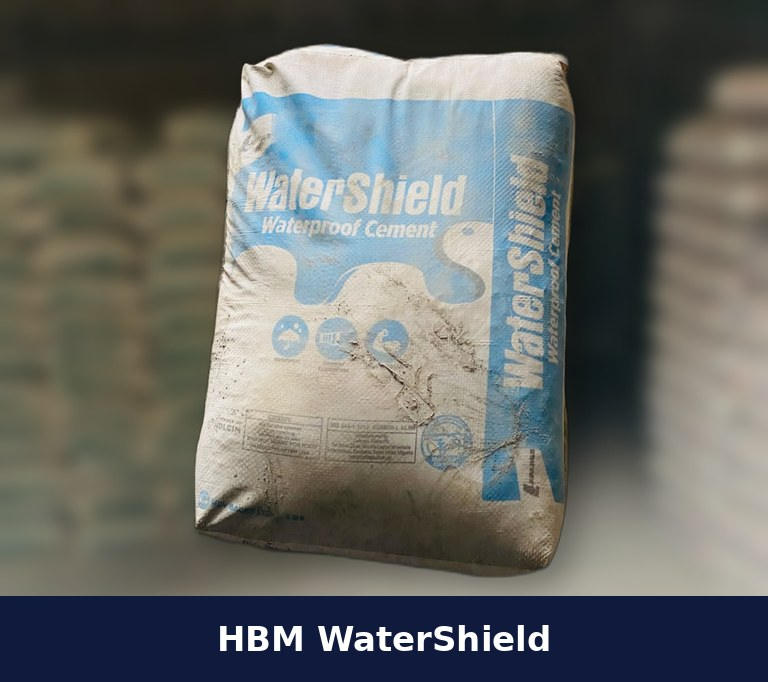
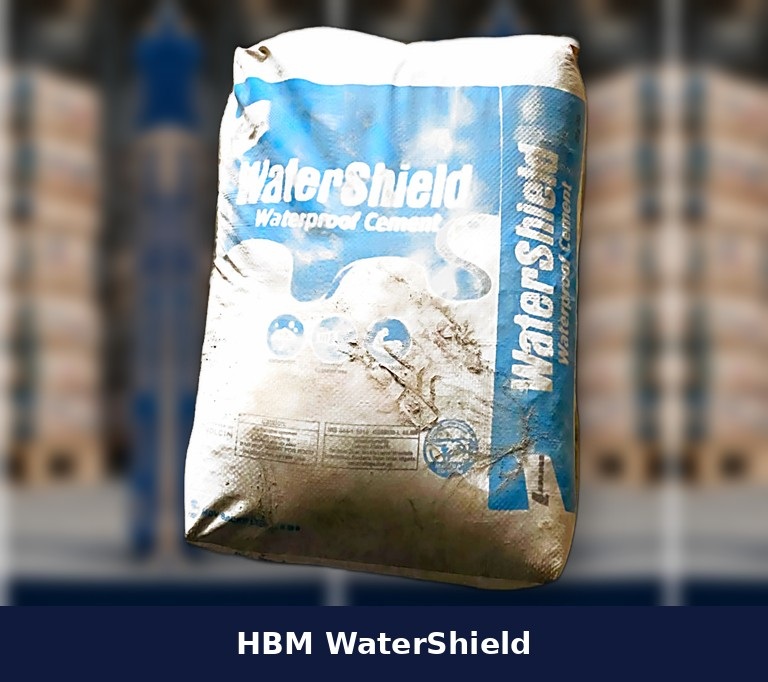
Remove bulk options, restyled new bag images, slide 1 text

diff --git a/src/lib/cement/catalog.ts b/src/lib/cement/catalog.ts
@@ -160,32 +160,6 @@ export const PRODUCTS: CementProduct[] = [
     samplePrice: 9700,
   },
 
-  // ==========================================
-  // BULK ORDER CONFIGURATIONS
-  // These are not additional cement brands.
-  // ==========================================
-
-  {
-    id: "dangote-3x-bulk",
-    name: "Dangote 3X — Bulk Order",
-    brand: "Dangote",
-    image: "/images/cement/stock-dangote-3x.jpeg",
-    description:
-      "Bulk ordering option for Dangote 3X. Select your required quantity and review estimated costs.",
-    samplePrice: 10500,
-    bulkOption: true,
-  },
-
-  {
-    id: "hbm-classic-bulk",
-    name: "HBM Classic — Bulk Order",
-    brand: "HBM",
-    image: "/images/cement/hbm-classic.png",
-    description:
-      "Bulk ordering option for HBM Classic. Select your required quantity and review estimated costs.",
-    samplePrice: 10000,
-    bulkOption: true,
-  },
 ];
 
 /**

diff --git a/src/components/home/HeroSlider.tsx b/src/components/home/HeroSlider.tsx
@@ -28,7 +28,7 @@ const slides = [
     title: "Building Trust.",
     highlight: "Creating Possibilities.",
     description:
-      "From building solutions, with cement distribution and building materials, through logistics and real estate to our bakery, we serve people, businesses and communities across Ogun, Lagos, Oyo and Osun States.",
+      "One trusted Nigerian group, from building solutions to bakery. We supply cement and building materials, deliver with our own trucks, develop real estate and bake fresh bread for homes and businesses across Ogun, Lagos, Oyo and Osun States.",
     image: "/images/corporate/Headquarters.jpeg",
     primaryText: "Explore Our Businesses",
     primaryHref: "/#businesses",

diff --git a/src/components/layout/Footer.tsx b/src/components/layout/Footer.tsx
@@ -62,9 +62,8 @@ export default function Footer() {
             </Link>
 
             <p className="max-w-xs text-sm leading-7 text-white/70">
-              Building solutions through cement distribution and
-              building materials, logistics and real estate, to
-              our bakery.
+              From building solutions to bakery: cement, building
+              materials, logistics, real estate and fresh bakes.
             </p>
 
             <p className="mt-6 text-xs font-semibold uppercase tracking-widest text-[#ff9a26]">

diff --git a/src/components/home/HomeContent.tsx b/src/components/home/HomeContent.tsx
@@ -22,8 +22,8 @@ const BUSINESS_IMAGES: Record<string, string> = {
 };
 
 const BRANDS = [
-  { name: "Dangote", image: "/images/cement/dangote-3x-large.png" },
-  { name: "HBM", image: "/images/cement/hbm-classic.png" },
+  { name: "Dangote", image: "/images/cement/real-dangote-3x.jpg" },
+  { name: "HBM", image: "/images/cement/real-hbm-ecocem.jpg" },
   { name: "BUA", image: "/images/cement/bua-cement.png" },
   { name: "Mangal", image: "/images/cement/mangal-cement.png" },
   { name: "Purechem", image: "/images/cement/purechem-cement.png" },
